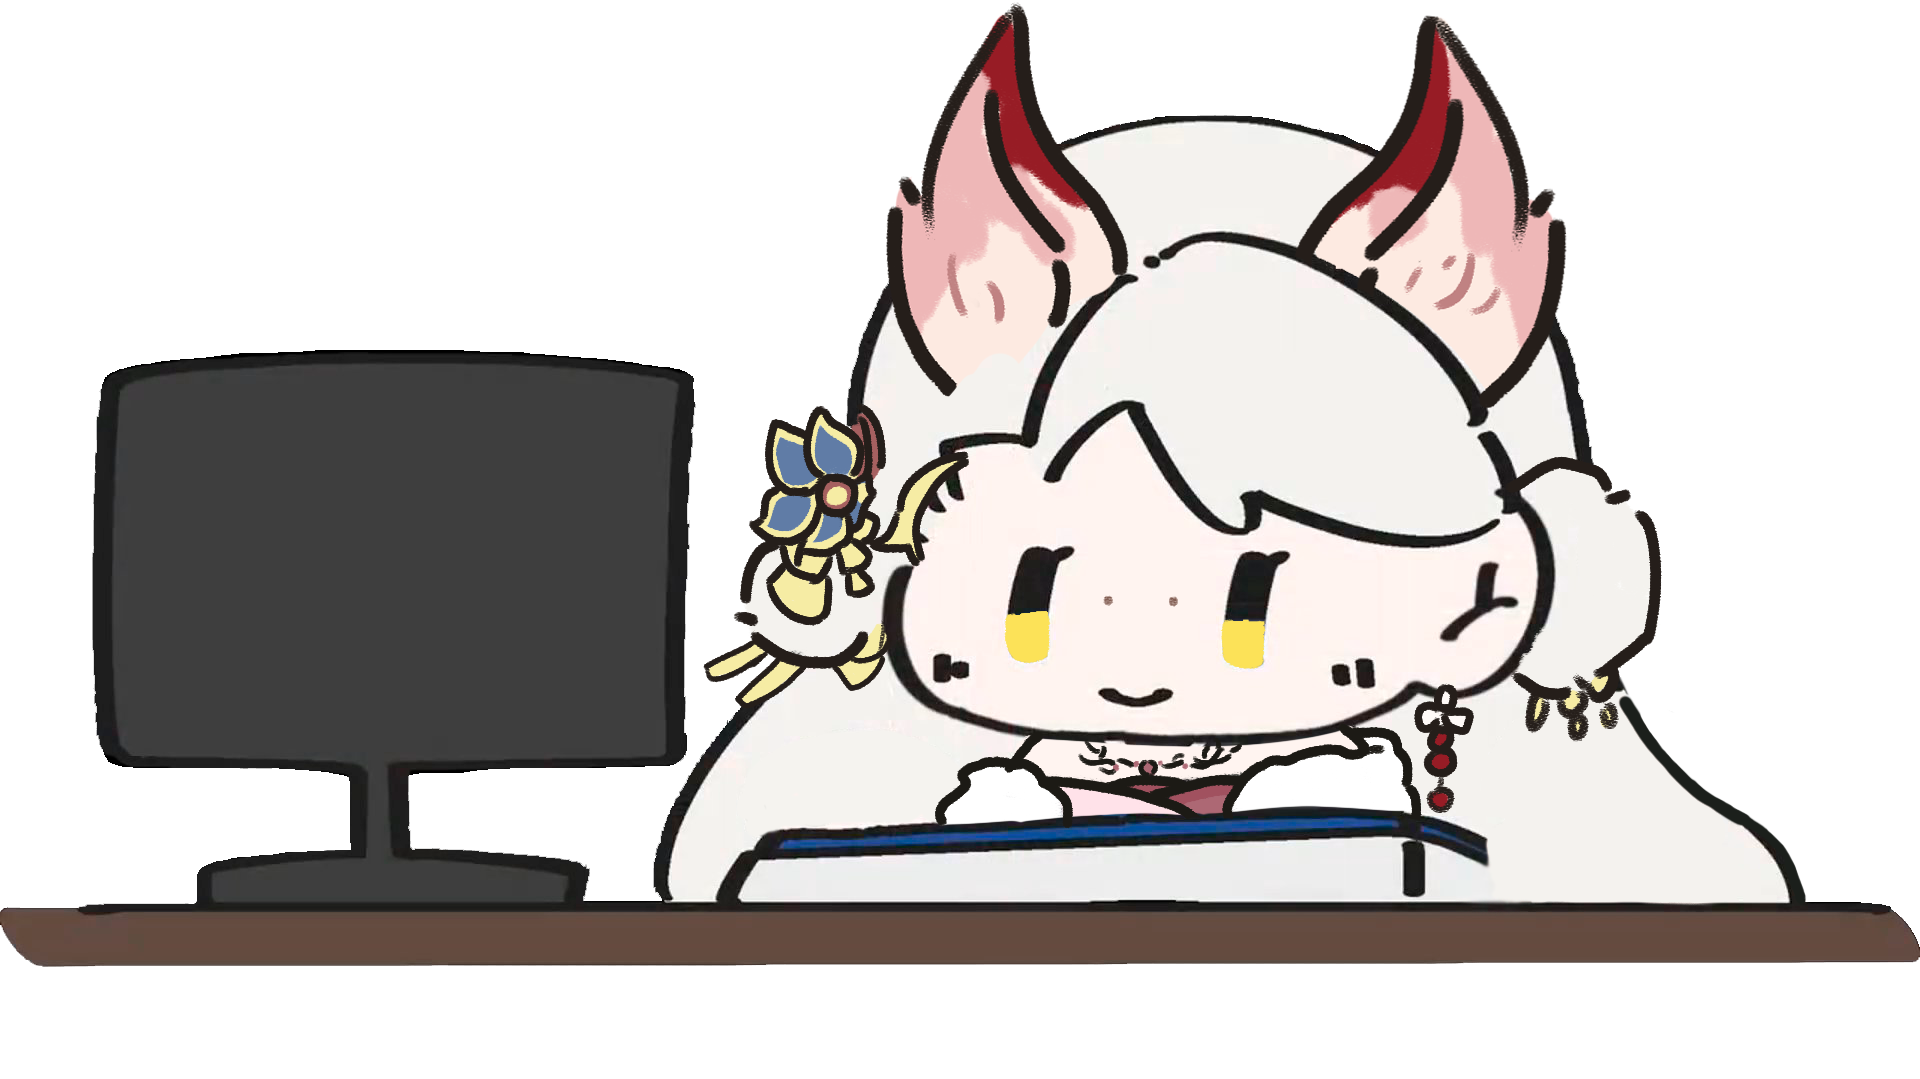
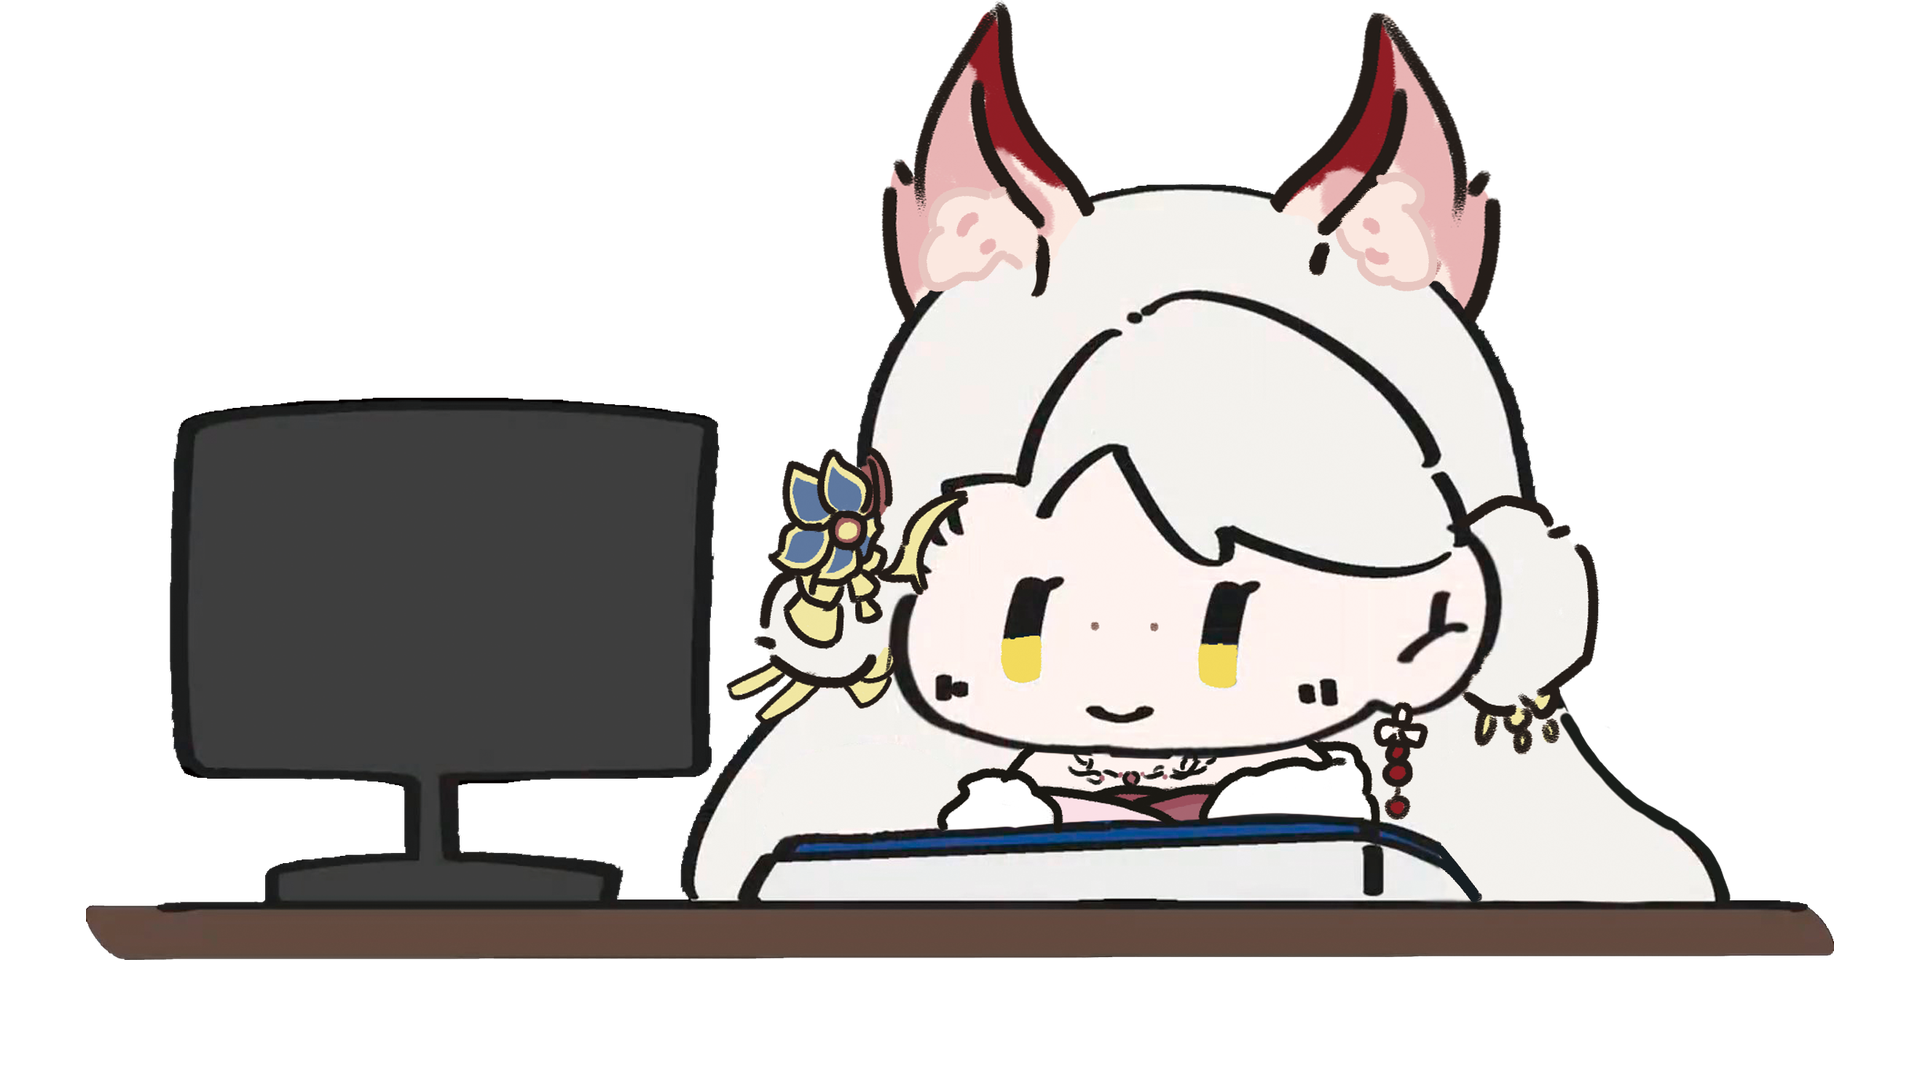
fix: 修正鼠标应援色并更新角色立绘

Changed region(s): [[0.0, 0.0, 1.0, 0.9175]]

diff --git a/client/src/pet/PetView.vue b/client/src/pet/PetView.vue
@@ -3,6 +3,7 @@
 // images) plus the emote bubble and the tap combo.
 import { computed, onBeforeUnmount, ref, watch } from "vue";
 import { getCharacter, headAnchor, PET_BASE } from "../characters";
+import { characterColor } from "../manifest";
 import EmoteBubble from "./EmoteBubble.vue";
 import ComboBubble from "./ComboBubble.vue";
 import type { EmoteFrame } from "./EmotePlayer";
@@ -70,6 +71,8 @@ const mouseStyle = computed(() => {
     transform: `translate(${props.mouseDx * s.value}px, ${props.mouseDy * s.value}px)`,
   };
 });
+const clickColor = computed(() => characterColor(assets.value?.name ?? props.character));
+const clickMask = (src: string) => ({ maskImage: `url("${src}")`, WebkitMaskImage: `url("${src}")` });
 
 const head = computed(() => headAnchor(props.character));
 
@@ -87,8 +90,8 @@ const bubbleAnchor = computed(() => ({
       <img class="layer bg" :src="scale <= 1 ? assets.bgSmall : scale <= 2 ? assets.bgMedium : assets.bg" :style="box" draggable="false" alt="" />
       <img class="layer kb" :class="{ down: pressed }" :src="assets.keyboard" :style="kbStyle" draggable="false" alt="" />
       <img class="layer mouse" :src="assets.mouse" :style="mouseStyle" draggable="false" alt="" />
-      <img v-if="leftDown" class="layer mouse" :src="assets.leftClick" :style="mouseStyle" draggable="false" alt="" />
-      <img v-if="rightDown" class="layer mouse" :src="assets.rightClick" :style="mouseStyle" draggable="false" alt="" />
+      <span v-if="leftDown" class="layer mouse click" :style="[mouseStyle, clickMask(assets.leftClick), { backgroundColor: clickColor }]" />
+      <span v-if="rightDown" class="layer mouse click" :style="[mouseStyle, clickMask(assets.rightClick), { backgroundColor: clickColor }]" />
     </div>
     <div v-else class="missing">?</div>
 
@@ -105,5 +108,6 @@ const bubbleAnchor = computed(() => ({
 .kb { transition: transform var(--dur-fast) var(--ease-pop); }
 .kb.down { transition: transform 50ms var(--ease-out); }
 .smooth-mouse .mouse { transition: transform 60ms linear; }
+.click { mask-size: 100% 100%; mask-repeat: no-repeat; -webkit-mask-size: 100% 100%; -webkit-mask-repeat: no-repeat; }
 .missing { color: var(--surface); opacity: 0.5; }
 </style>

diff --git a/client/src/pet/PetView.test.ts b/client/src/pet/PetView.test.ts
@@ -1,0 +1,30 @@
+import { createSSRApp } from "vue";
+import { renderToString } from "vue/server-renderer";
+import { describe, expect, it } from "vitest";
+import { characters } from "../characters";
+import { characterColor } from "../manifest";
+import PetView from "./PetView.vue";
+
+describe("member click colors", () => {
+  it.each(Object.keys(characters))("uses %s's support color on both buttons", async (character) => {
+    const html = await renderToString(createSSRApp(PetView, {
+      character, leftDown: true, rightDown: true, mouseDx: 7, mouseDy: -3,
+    }));
+    expect(html.match(/background-color:[^;" ]+/g)).toEqual([
+      `background-color:${characterColor(character)}`,
+      `background-color:${characterColor(character)}`,
+    ]);
+    expect(html).toContain(characters[character].leftClick);
+    expect(html).toContain(characters[character].rightClick);
+    expect(html.match(/mask-image:/g)).toHaveLength(4);
+    expect(html.match(/translate\(7px,\s*-3px\)/g)).toHaveLength(3);
+  });
+
+  it.each([[false, false, 0], [true, false, 1], [false, true, 1]] as const)(
+    "shows the pressed buttons: left=%s, right=%s",
+    async (leftDown, rightDown, count) => {
+      const html = await renderToString(createSSRApp(PetView, { character: "贝拉2025生日", leftDown, rightDown }));
+      expect(html.match(/class="layer mouse click"/g) ?? []).toHaveLength(count);
+    },
+  );
+});

diff --git a/client/src/resonance.test.ts b/client/src/resonance.test.ts
@@ -3,10 +3,10 @@ import { manifest } from "./manifest";
 import { craftCost, getItem, ownsCharacter } from "./items";
 import { commonKindRates, effectiveRates, poolOf } from "./resonance";
 
-it("builds one all-member pool with 549 distinct items", () => {
+it("builds one all-member pool with 550 distinct items", () => {
   const p = poolOf();
-  expect([p.common.length,p.uncommon.length,p.rare.length,p.epic.length,p.legendary.length,p.skin.length]).toEqual([372,75,60,26,10,6]);
-  expect(new Set(Object.values(p).flat().map((i) => i.id)).size).toBe(549);
+  expect([p.common.length,p.uncommon.length,p.rare.length,p.epic.length,p.legendary.length,p.skin.length]).toEqual([372,75,60,26,10,7]);
+  expect(new Set(Object.values(p).flat().map((i) => i.id)).size).toBe(550);
 });
 it("allocates 45 percent to common cards and 40.5 percent to ordinary emotes", () => {
   const p = poolOf();

diff --git a/client/src/characters.test.ts b/client/src/characters.test.ts
@@ -17,4 +17,15 @@ describe("skins", () => {
   it("show the member when this client does not have the skin", () => {
     expect(getCharacter("思诺新皮肤")).toBe(characters["思诺"]);
   });
+  it("ships the birthday skin with previews and the member's input layers", () => {
+    const skin = characters["贝拉2025生日"]!;
+    const base = characters["贝拉"]!;
+    expect(getCharacter(skin.name)).toBe(skin);
+    expect(skin.bg).not.toBe(base.bg);
+    expect(skin.bgSmall).not.toBe(skin.bg);
+    expect(skin.bgMedium).not.toBe(skin.bg);
+    expect(skin.portrait).toBeTruthy();
+    expect([skin.keyboard, skin.mouse, skin.leftClick, skin.rightClick])
+      .toEqual([base.keyboard, base.mouse, base.leftClick, base.rightClick]);
+  });
 });

diff --git a/client/src/characters.ts b/client/src/characters.ts
@@ -85,6 +85,10 @@ const HEADS: Record<string, { x: number; y: number }> = {
   贝拉: { x: 146, y: 10 },
   心宜: { x: 152, y: 10 },
   思诺: { x: 142, y: 9 },
+  乃琳山海经: { x: 150, y: 0 },
+  乃琳睡衣派对: { x: 150, y: 0 },
+  贝拉2025生日: { x: 144, y: 0 },
+  贝拉睡衣派对: { x: 144, y: 0 },
 };
 export function headAnchor(name: string): { x: number; y: number } {
   return HEADS[name] ?? HEADS[memberOf(name)] ?? { x: 150, y: 10 };

diff --git a/server/tests/test_manifest.py b/server/tests/test_manifest.py
@@ -126,13 +126,13 @@ def test_accessories_starter_and_economy():
     assert M.starter == {f"emote:{k}" for k in starter}
     dropped = {i["id"] for tier in M.resonance_pool.values() for i in tier}
     assert not dropped & M.starter
-    assert len(dropped) == 549
+    assert len(dropped) == 550
     assert len(M.items) == len(dropped) + len(M.starter)
     assert M.craft_cost == {"common": 480, "uncommon": 960, "rare": 1600}
 
 
 def test_pool_counts_and_card_rarities():
-    assert [len(M.resonance_pool[r]) for r in ("common", "uncommon", "rare", "epic", "legendary", "skin")] == [372, 75, 60, 26, 10, 6]
+    assert [len(M.resonance_pool[r]) for r in ("common", "uncommon", "rare", "epic", "legendary", "skin")] == [372, 75, 60, 26, 10, 7]
     for c in M.cards.values():
         assert c["rarity"] == ("legendary" if c["tier"] == "big" else "epic" if c["tier"] == "small" or c["video"] else "common")
     assert all(set(r) == {"name"} for r in M.data["rarities"].values())

diff --git a/scripts/asset_catalog.py b/scripts/asset_catalog.py
@@ -250,7 +250,9 @@ THEME_RARITY = "rare"
 STARTER_EMOTES = 4
 # Resonance mixes every member; duplicates refund shards and crafting targets common/rare items.
 SKINS = [{"name": f"{member}{series}", "member": member}
-         for series in ("山海经", "睡衣派对") for member in ("嘉然", "乃琳", "贝拉")]
+         for series in ("山海经", "睡衣派对") for member in ("嘉然", "乃琳", "贝拉")] + [
+    {"name": "贝拉2025生日", "member": "贝拉"},
+]
 INCOME = {"perMinute": 16, "maxMultiplier": 5, "fullTapsPerMinute": 60}
 RESONANCE = {"cost": 160, "rates": {"legendary": 0.5, "skin": 0.5, "epic": 4.5, "rare": 3, "uncommon": 6, "common": 85.5},
              "pity": {"legendary": 400, "skin": 200}, "commonKindWeights": {"card": 45, "emote": 40.5},

diff --git a/server/tests/test_draws.py b/server/tests/test_draws.py
@@ -25,7 +25,7 @@ def test_new_player_and_idle_income():
         clock.t += 20
         r = g.presence(TOKEN, SESSION)
     assert r["shards"] == 1616 and r["income"] == {"multiplier": 1, "perMinute": 16}
-    assert r["totals"]["items"] == 549
+    assert r["totals"]["items"] == 550
 
 
 @pytest.mark.parametrize("taps,multiplier,rate", [(0, 1, 16), (30, 3, 48), (60, 5, 80), (120, 5, 80)])

diff --git a/ASSETS.md b/ASSETS.md
@@ -32,8 +32,10 @@ assets-packs/
 
 在 `client/src/assets/characters/` 下新建以成员名开头的文件夹（如 `贝拉山海经/`），放入透明背景的 `bgImage.png`，构图与成员原皮保持一致。
 
-- 键盘、鼠标、点击图层可省略，缺失时沿用成员原皮；主题色、初始表情和头部位置跟随成员。
+- 键盘、鼠标、点击图层可省略，缺失时沿用成员原皮；点击图层以原图透明度作遮罩，颜色取成员应援色。主题色、初始表情和头部位置跟随成员，特殊构图在 `characters.ts` 的 `HEADS` 中配置头部位置。
 - 在 `scripts/asset_catalog.py` 的 `SKINS` 中增加名称和所属 member，重新生成两份 manifest。皮肤随客户端发布，并自动进入此间共鸣池。对方客户端缺少该皮肤素材时显示成员原皮。
+
+画师修正版已替换乃琳山海经、乃琳睡衣派对、贝拉睡衣派对，并新增贝拉2025生日。透明 PNG 保留 alpha 通道；4:3 原图裁去外围全透明留白后等比放入 1920×1080 透明画布，画面内容底部对齐 y=960。睡衣乃琳沿用画师提供的 1920×1079 原图。
 
 ## 构建脚本
 
@@ -91,7 +93,7 @@ python scripts/build_assets.py --src /path/to/A-SOUL装扮收藏集大全 --emot
 所有卡片进入同一个此间共鸣池。大隐藏卡为 legendary，小隐藏和带视频的跳舞卡为 epic，其余卡为 common；原有 tier 字段保留用于卡册展示。三张心宜与思诺共有卡各自只入池一次。
 
 - **共鸣概率**：大隐藏 0.5%、皮肤 0.5%、史诗 4.5%、稀有表情 3%、罕见表情 6%、普通 85.5%。普通档先按普卡 45 : 表情 40.5 的权重选类型，再在类型内优先补缺；对应类型集齐后产生重复。初始单抽普卡为 45%、普通表情为 40.5%。高档集齐后概率并入普通档。
-- **表情与皮肤**：共 475 个收藏表情，每位成员 4 个初始表情；455 个非初始表情入池，普通 320 个、罕见 75 个、稀有 60 个。脑洞波与绽放各三套为罕见，三套动态表情为稀有，其他为普通。山海经、睡衣派对各 3 款皮肤通过共鸣解锁，背包展示全部皮肤，未解锁项压暗且不可选择。
+- **表情与皮肤**：共 475 个收藏表情，每位成员 4 个初始表情；455 个非初始表情入池，普通 320 个、罕见 75 个、稀有 60 个。脑洞波与绽放各三套为罕见，三套动态表情为稀有，其他为普通。山海经、睡衣派对各 3 款及贝拉2025生日，共 7 款皮肤通过共鸣解锁，背包展示全部皮肤，未解锁项压暗且不可选择。
 - **图鉴卡册**：系列栏含「全部」；未拥有卡保持彩色并压暗。目录内可见且已拥有的动态卡循环播放；所有未拥有卡使用静态缩略图，跳舞卡同样显示其静态封面。滚出可视区域的视频卸载，回到视野时开始播放。共鸣页的卡池演示独立于持有状态，动态卡保持正常亮度并自动播放。
 - **碎片**：共鸣每次 160。重复表情返还 10 碎片，重复卡片累计持有数量。普通兑换价 480、罕见 960、稀有 1600；皮肤、史诗、传说和初始表情按共鸣与初始规则获取。
 

diff --git a/docs/ARCHITECTURE.md b/docs/ARCHITECTURE.md
@@ -36,7 +36,7 @@ Mouse pass-through is updated dynamically based on interactive regions:
 - `pet/` — layered pet renderer (`PetView.vue`), drag actor (`PetActor.vue`), `CounterBar.vue`, single-row `QuickEmote.vue` dock, `EmoteBubble.vue`, `ComboBubble.vue`, and `NamePill.vue`.
 - `panel/` — `MainPanel.vue` (sidebar, top bar, page shutter) with five pages:
   - `EmotesPage.vue`: backpack with a fixed showcase (the pet stage beside eight favorite slots and the wallet), one filter bar (`MemberStrip.vue`, kind tabs, search) and scrolling shelves of all skins (locked ones dimmed and disabled) and owned emotes. Only the shelves scroll, so the slots stay in reach while dragging. The wallet links to resonance.
-  - `ResonancePage.vue`: one all-member pool with a self-rotating banner of its 36 dynamic cards, a separate row of skins that open their details, tier counts (`PoolStage.vue`), independent shared pity counters, income and single/ten/all draws. The pool includes all 549 non-starter collectibles once.
+  - `ResonancePage.vue`: one all-member pool with a self-rotating banner of its 36 dynamic cards, a separate row of skins that open their details, tier counts (`PoolStage.vue`), independent shared pity counters, income and single/ten/all draws. The pool includes all 550 non-starter collectibles once.
   - `CollectionPage.vue`: dex with card, emote and skin categories. Cards retain series filters and the album/detail views; emotes retain the searchable album wall. Eligible missing cards and emotes are crafted directly in their details, with balance, pending and success states. Skins use portrait cards, member colors, ownership filters, a live pet preview and an equip action. Locked skins link to resonance.
   - `OnlinePage.vue`: a table of live pets (`RoomStage.vue`), six to a row, that opens another row whenever the room fills one, up to `MAX_ROOM_SIZE`; the room ticket, desk settings and the member list.
   - `SettingsPage.vue`: a profile strip with the nickname and totals, theme cards showing each member on her theme's gradient, then the pet, window and server groups in two columns.

diff --git a/README.md b/README.md
@@ -17,7 +17,7 @@
 - **桌面桌宠**：收录嘉然、乃琳、贝拉、心宜、思诺五位分层桌宠，支持键盘弹跳、鼠标跟随、左右键点击反馈与置顶/点击穿透。
 - **同桌联机**：输入或创建房间号即可与朋友同房（最多 20 人），伙伴的桌宠会显示在你的桌面上，可自由拖动并按房间记忆位置。
 - **本地动态卡**：36 段动态卡视频随客户端内置，卡池预览、卡片详情和共鸣展示直接播放本地资源。
-- **背包与图鉴**：475 个表情（26 套）、88 张卡片和 6 款皮肤。背包用于选择已拥有角色、皮肤和 8 个常用表情；图鉴查看全部内容，并用碎片兑换普通卡和普通、罕见、稀有表情。
+- **背包与图鉴**：475 个表情（26 套）、88 张卡片和 7 款皮肤。背包用于选择已拥有角色、皮肤和 8 个常用表情；图鉴查看全部内容，并用碎片兑换普通卡和普通、罕见、稀有表情。
 - **此间共鸣**：五位成员共用一个池子，每次消耗 160 碎片，可获得卡片、表情和皮肤。大隐藏 0.5%、皮肤 0.5%、小隐藏与跳舞卡 4.5%、稀有表情 3%、罕见表情 6%、普通 85.5%（初始单抽普卡 45%、普通表情 40.5%）；重复表情返还 10 碎片，重复卡片累计数量。大隐藏 400 次、皮肤 200 次独立保底，进度分别累计。在线每分钟获得 16 碎片，上一分钟每 60 下有效敲击达到 ×5；新玩家赠送 1600 碎片。
 
 素材构建说明见 [ASSETS.md](ASSETS.md)，前后端接口见 [protocol/PROTOCOL.md](protocol/PROTOCOL.md)，架构说明见 [docs/ARCHITECTURE.md](docs/ARCHITECTURE.md)。
